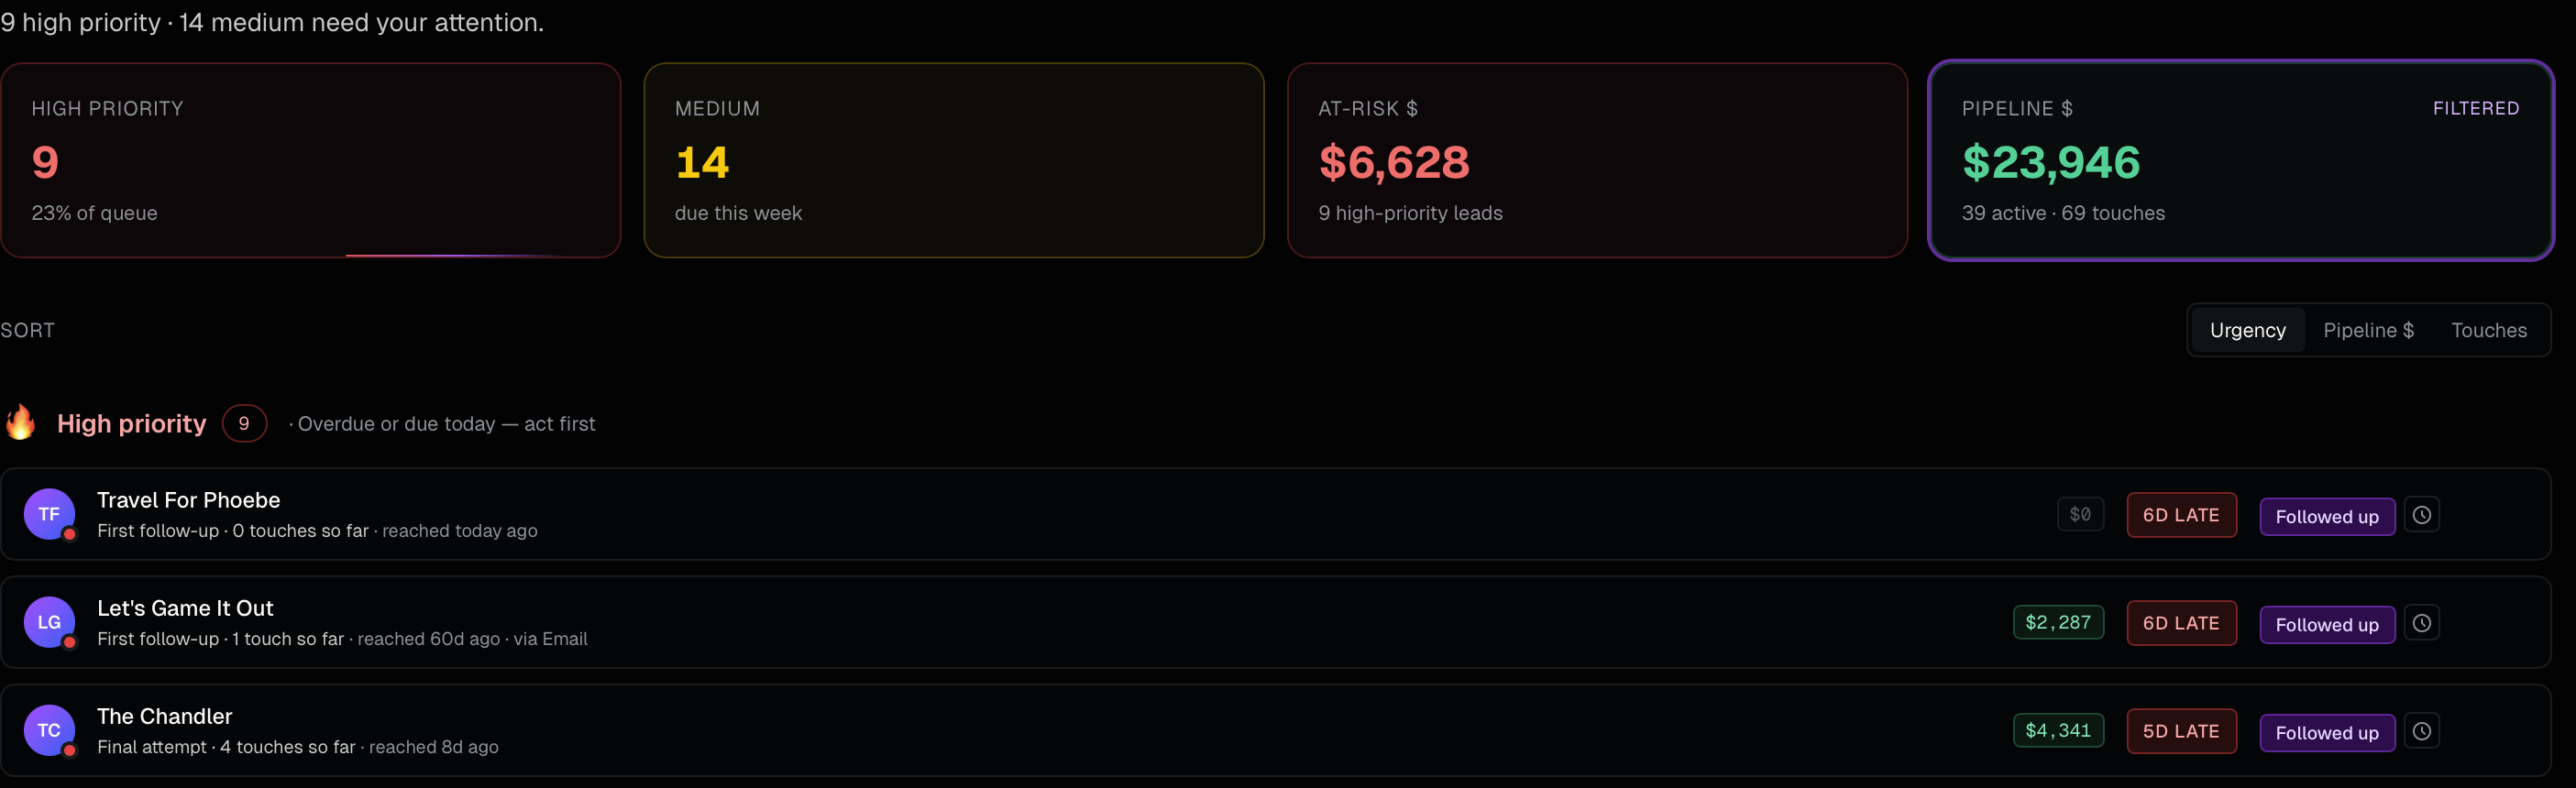
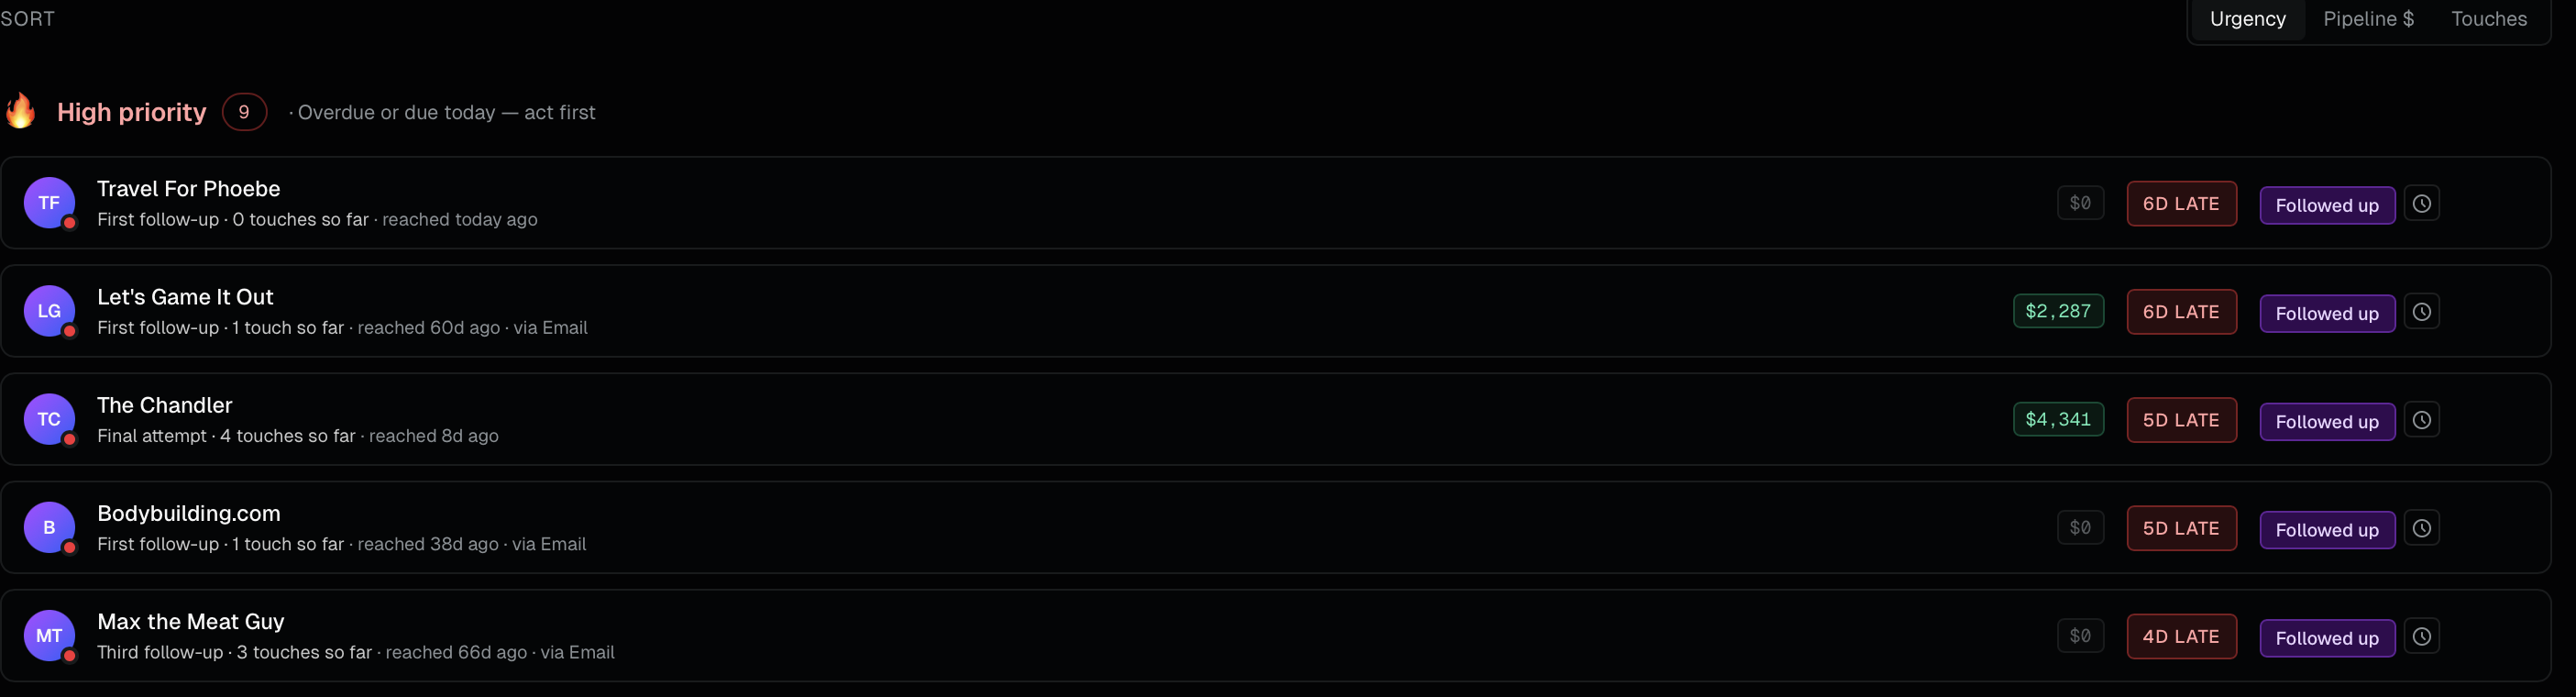
Landing: real screenshot crops for CRM + Cadence cards (better regions)
Dylan: "use ACTUAL LEGIT visuals, no forced screenshots if they don't
work." Earlier crops on cards 3+4 either showed isolated cells (CRM
status column = "horrendous") or KPI-style priority cards (Cadence =
"random analytics visual"). Re-cropped both to better regions:

- bento-status.png: full-width slice of the right side of the
  Outreach table — Product, Reached (pink ✓), Status (Successful /
  Open / Rejected pills), Medium (Email selectors). 5 rows. Real CRM
  context, not isolated cells.

- bento-priority.png: skipped the priority KPI cards entirely and
  focused on the LEADS LIST below them. Shows "🔥 High priority 9 ·
  Overdue or due today — act first" header + 5 leads with their
  "6D LATE" / "5D LATE" / "4D LATE" red badges and purple "Followed
  up" buttons. THIS is the cadence-system signal.

Reverted BentoGrid CRM + Cadence visuals from hand-built HTML mocks
back to <CropImage src=... /> — both feature have meaningful real
screenshots now, no need to fake it.

Crop coordinates committed in scripts/crop-screenshots.py so future
adjustments stay deliberate.

diff --git a/components/landing/BentoGrid.tsx b/components/landing/BentoGrid.tsx
@@ -119,113 +119,20 @@ export function ScoringVisual() {
   return <CropImage src="/screenshots/bento-fit.png" alt="AI fit scoring chips" className="aspect-[870/940]" />
 }
 
-// 3 — Built-in CRM · hand-built mini outreach board. Real screenshot
-// crops of just the Status column read as "horrendous" (Dylan's word)
-// because they're decontextualized cells. A stylized 3-row recreation
-// using the actual app's color tokens reads as the CRM concept
-// without forcing a bad screenshot.
+// 3 — Built-in CRM · right-side columns of the real Outreach table
+// (Product / Reached / Status / Medium). The Status pill column with
+// Successful / Open / Rejected gives full CRM context, not isolated
+// cells like the previous tighter crop.
 export function CrmVisual() {
-  const rows = [
-    { initials: 'CD', name: 'CoinDesk',     email: '[email redacted]',     status: 'Successful', color: 'emerald' },
-    { initials: 'VL', name: 'Vince Lymburn', email: '[email redacted]',     status: 'Open',       color: 'blue' },
-    { initials: 'ZL', name: 'Zebu Live',     email: '[email redacted]',      status: 'Successful', color: 'emerald' },
-    { initials: 'BF', name: 'Bianca F.',     email: '[email redacted]',     status: 'Rejected',   color: 'red' },
-  ]
-  const pill: Record<string, string> = {
-    emerald: 'text-emerald-300 border-emerald-500/40 bg-emerald-500/10',
-    blue:    'text-blue-300    border-blue-500/40    bg-blue-500/10',
-    red:     'text-red-300     border-red-500/40     bg-red-500/10',
-  }
-  return (
-    <motion.div
-      initial={{ opacity: 0, scale: 0.97 }}
-      whileInView={{ opacity: 1, scale: 1 }}
-      viewport={{ once: true, amount: 0.3 }}
-      transition={{ duration: 0.5, ease: 'easeOut' }}
-      // Same dark surface as the real app so the visual feels native,
-      // not like a separate stylized mock.
-      className="relative rounded-xl overflow-hidden bg-gray-950 ring-1 ring-white/5 shadow-[0_18px_45px_-18px_rgba(76,29,149,0.30)] aspect-[920/800]"
-    >
-      <div className="px-4 pt-4 pb-3 flex flex-col h-full justify-between">
-        {rows.map((r) => (
-          <div key={r.name} className="flex items-center gap-2.5">
-            <div className="w-7 h-7 rounded-full bg-gradient-to-br from-purple-500 to-blue-500 text-[10px] text-white flex items-center justify-center font-semibold shrink-0">
-              {r.initials}
-            </div>
-            <div className="flex-1 min-w-0">
-              <div className="text-[12px] text-white font-medium truncate">{r.name}</div>
-              <div className="text-[10px] text-gray-400 truncate">{r.email}</div>
-            </div>
-            <span className={`text-[10px] px-2 py-0.5 rounded-md border ${pill[r.color]} font-medium`}>
-              {r.status}
-            </span>
-          </div>
-        ))}
-      </div>
-    </motion.div>
-  )
+  return <CropImage src="/screenshots/bento-status.png" alt="CRM table with status pills" className="aspect-[1110/700]" />
 }
 
-// 4 — Smart follow-up cadence · horizontal timeline showing the 5
-// touch points (Day 0 → 3 → 7 → 14 → 21). Pure HTML/Tailwind, no
-// forced screenshot. Mirrors the description copy ("3d, 7d, 14d,
-// then 21d") so the visual literally illustrates the words.
+// 4 — Smart follow-up cadence · the leads list from Follow-ups page.
+// Skipped the priority KPI cards (which read as analytics) and
+// focused on the rows showing "6D LATE" red badges + purple
+// "Followed up" buttons — the actual cadence-system signal.
 export function CadenceVisual() {
-  const stops = [
-    { day: 'D 0',  label: 'Sent',   icon: '✉' },
-    { day: 'D 3',  label: 'Ping 1', icon: '⏰' },
-    { day: 'D 7',  label: 'Ping 2', icon: '⏰' },
-    { day: 'D 14', label: 'Ping 3', icon: '⏰' },
-    { day: 'D 21', label: 'Final',  icon: '⏰' },
-  ]
-  return (
-    <motion.div
-      initial={{ opacity: 0, scale: 0.97 }}
-      whileInView={{ opacity: 1, scale: 1 }}
-      viewport={{ once: true, amount: 0.3 }}
-      transition={{ duration: 0.5, ease: 'easeOut' }}
-      className="relative rounded-xl overflow-hidden bg-gray-950 ring-1 ring-white/5 shadow-[0_18px_45px_-18px_rgba(76,29,149,0.30)] aspect-[2810/860] flex flex-col justify-center"
-    >
-      {/* Sample sent-email line so the cadence feels grounded in
-          actual outreach, not just abstract dots. Templated tokens
-          ({{firstName}}, {{topic}}) match the language Dylan asked
-          for — "templated language for email outreach". */}
-      <div className="px-6 pt-6 pb-4">
-        <div className="text-[10px] uppercase tracking-[0.2em] text-purple-300/70 mb-2">Email template</div>
-        <div className="text-[12px] text-gray-300 font-mono leading-relaxed">
-          Hey <span className="text-purple-300">{'{{firstName}}'}</span>, loved your video on{' '}
-          <span className="text-purple-300">{'{{topic}}'}</span>…
-        </div>
-      </div>
-
-      {/* Timeline */}
-      <div className="relative px-6 pb-6">
-        {/* Connector line */}
-        <div className="absolute left-10 right-10 top-[14px] h-px bg-gradient-to-r from-purple-500/60 via-blue-500/60 to-purple-500/30" />
-        <div className="relative grid grid-cols-5 gap-2">
-          {stops.map((s, i) => (
-            <div key={s.day} className="flex flex-col items-center text-center">
-              <motion.span
-                initial={{ scale: 0 }}
-                whileInView={{ scale: 1 }}
-                viewport={{ once: true }}
-                transition={{ delay: 0.2 + i * 0.08, type: 'spring', stiffness: 200 }}
-                className={`relative z-10 w-7 h-7 rounded-full flex items-center justify-center text-[12px] ${
-                  i === 0
-                    ? 'bg-purple-500 text-white shadow-[0_0_20px_rgba(168,85,247,0.7)]'
-                    : 'bg-gray-900 text-purple-300 ring-1 ring-purple-500/40'
-                }`}
-              >
-                {s.icon}
-              </motion.span>
-              <div className="text-[10px] text-gray-300 font-medium mt-2">{s.day}</div>
-              <div className="text-[9px] text-gray-500">{s.label}</div>
-            </div>
-          ))}
-        </div>
-      </div>
-    </motion.div>
-  )
+  return <CropImage src="/screenshots/bento-priority.png" alt="Follow-up leads with late badges" className="aspect-[2810/760]" />
 }
 
 // 5 — Analytics + custom metrics · KPI cards + status breakdown

diff --git a/scripts/crop-screenshots.py b/scripts/crop-screenshots.py
@@ -38,15 +38,18 @@ crop("results.png", (0, 0, 2472, 950), "bento-search.png")
 # Channel + Fit Score columns, header through row 5 — chips are the hero.
 crop("results.png", (130, 380, 870, 940), "bento-fit.png")
 
-# Card 3 — "Built-in CRM" (single col, taller)
-# Email + Status columns from Outreach board — colored status pills are the hero.
-# Tightened to start cleanly at the table header (skip "Add manually" sliver).
-crop("outreach.png", (1480, 320, 920, 800), "bento-status.png")
+# Card 3 — "Built-in CRM" (single col)
+# A wider crop showing right-side columns of the Outreach table:
+# Reached (pink check), Status (Successful/Open/Rejected pills), Medium
+# (Email selector). This gives full CRM context, not isolated cells.
+crop("outreach.png", (1280, 270, 1110, 700), "bento-status.png")
 
 # Card 4 — "Smart follow-up cadence" (wide, col-span-2)
-# 4 priority cards + first leads from Follow-ups page.
-# Tightened: skip the leftover sub-tab fragment, start clean at "9 high priority".
-crop("followups.png", (0, 130, 2810, 860), "bento-priority.png")
+# Skip the priority KPI cards (which Dylan said look analytics-y) and
+# focus on the LEADS LIST below them — the "🔥 High priority" header
+# plus 4 leads with their "6D LATE" red badges and purple "Followed
+# up" buttons. THAT is the cadence-system signal.
+crop("followups.png", (0, 470, 2810, 760), "bento-priority.png")
 
 # Card 5 — "Analytics + custom metrics" (full-width, col-span-3)
 # KPI cards row + status breakdown bar.